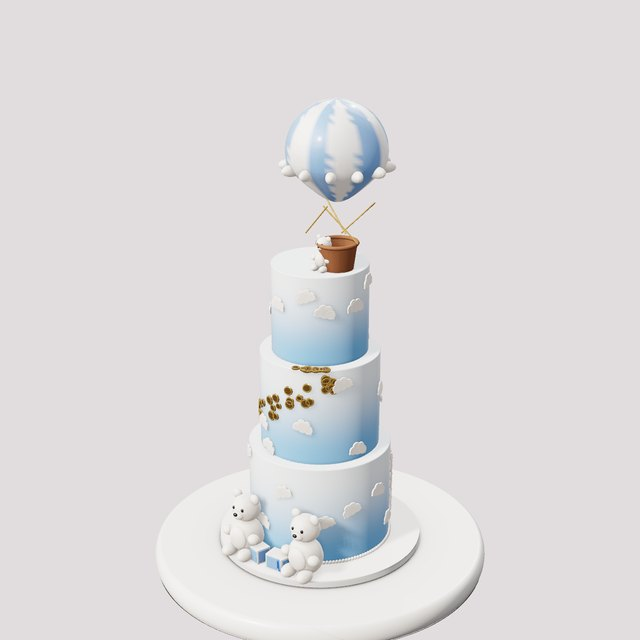
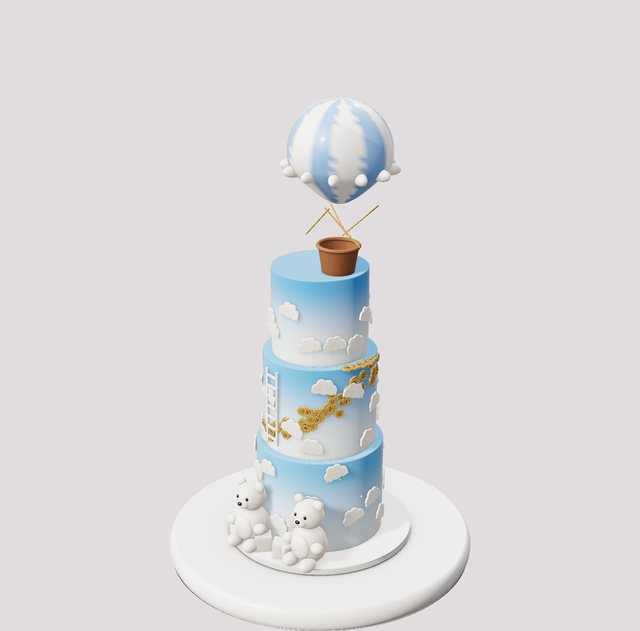
Signature cakes round 7: baby sky ombre, clouds, ladder, buttons; pot lid handle
Claude-Session: https://claude.ai/code/session_016sN14hzH19WJ5zrp8o2QGp

diff --git a/studio.html b/studio.html
@@ -1380,7 +1380,7 @@ function cornParts(q,c){const L=.9,R=.2,g=new T.CylinderGeometry(R,R*.85,L,28,26
 function potatoParts(q,c){const g=new T.SphereGeometry(.22,18,12),p=g.attributes.position,ph=q()*9;for(let i=0;i<p.count;i++){const x=p.getX(i),y=p.getY(i),z=p.getZ(i),k=1+.08*Math.sin(x*9+ph)*Math.sin(z*7);p.setXYZ(i,x*k*1.25,y*k*.8,z*k)}g.computeVertexNormals();g.translate(0,.16,0);
  tintTo(g,(x,y,z)=>{const s=Math.sin(x*40+ph)*Math.sin(z*37)*Math.sin(y*41);return s>.6?[.55,.4,.25]:[1,1,1]});return[[dmat(c,{r:.7,sh:.25}),norm(g)]]}
 function potLidParts(q,c){const R=1/Math.sin(.42),lid=new T.SphereGeometry(R,64,12,0,2*PI,0,.42);lid.scale(1,1.8,1);lid.translate(0,-Math.cos(.42)*R*1.8+.02,0);const rim=new T.TorusGeometry(1,.035,8,64);rim.rotateX(PI/2);rim.translate(0,.03,0);
- const h=new T.TorusGeometry(.22,.04,10,24,PI);h.translate(0,.2,0);const k1=new T.CylinderGeometry(.04,.05,.06,10);k1.translate(-.22,.2,0);const k2=k1.clone();k2.translate(.44,0,0);
+ const h=new T.TorusGeometry(.3,.06,12,28,PI);h.translate(0,.42,0);const k1=new T.CylinderGeometry(.07,.09,.1,12);k1.translate(-.3,.4,0);const k2=k1.clone();k2.translate(.6,0,0);
  return[[sgMat.metal(c),mg([lid,rim,h,k1,k2])]]}
 // ---------- money ----------
 function cashParts(q,c){const parts=[];const n=1+(q()<.5?1:0);for(let k=0;k<n;k++){const W=1.05,H=.45,g=new T.PlaneGeometry(W,H,18,6),p=g.attributes.position,cv=rj(q,.25);for(let i=0;i<p.count;i++){const x=p.getX(i);p.setZ(i,cv*x*x)}
@@ -1584,10 +1584,10 @@ THEMES.unshift(
   newTier(7,3.6,{color:'#fbf8f2',finish:'fondant',side:'quilted',sideColor:'#fbf8f2',pearlColor:'#d9a08a',top:'none',bottom:'pearls',bottomColor:'#d9a08a'}),
   newTier(6,3.4,{color:'#fbf8f2',finish:'fondant',side:'strings',pipe:'#d9a08a',top:'pearls',pipe2:'#d9a08a',bottom:'pearls',bottomColor:'#d9a08a',decor:[DC('brooch','band',1,{color:'#d9a08a',size:100,R:3,rot:95})]}),
   newTier(5,3.4,{color:'#fbf8f2',finish:'fondant',top:'dpearls',topColor:'#d9a08a',bottom:'none',decor:[DC('roses','cluster',3,{color:'#d9a08a',size:130})]})]}},
- {key:'sig_babysky',name:'Up, Up And Away Bears',tag:SIG,blurb:'Sky blue ombre tiers with fondant clouds, a ladder, a spiral of gold buttons, teddy bears, ABC blocks and a hot air balloon.',d:{board:'white',boardColor:'#e9eaec',topper:'none',tiers:[
-  newTier(9,6.5,{color:'#6fb3e8',finish:'fondant',ombre:true,ombreColor:'#eef6fc',top:'none',bottom:'pearls',bottomColor:'#fbf7f1',decor:[DC('clouds','scatter',14,{color:'#fbf7f1',size:150}),DC('teddy','cluster',2,{color:'#f6efe6',size:340,where:'board',face:95}),DC('abcblocks','cluster',4,{size:230,where:'board',mix:['#2f6fd0','#2f6fd0','#7fb0e8']}),DC('ladder','band',1,{color:'#fbf7f1',rot:-40,size:190})]}),
-  newTier(7.5,6.2,{color:'#6fb3e8',finish:'fondant',ombre:true,ombreColor:'#eef6fc',top:'none',bottom:'none',decor:[DC('clouds','scatter',12,{color:'#fbf7f1',size:150}),DC('buttons','cascade',46,{color:'#d4ae5a',rot:-25,size:150,wide:1.5})]}),
-  newTier(6,5.6,{color:'#6fb3e8',finish:'fondant',ombre:true,ombreColor:'#eef6fc',top:'none',bottom:'none',decor:[DC('clouds','scatter',10,{color:'#fbf7f1',size:150}),DC('balloon','cluster',1,{color:'#7fb0e8',size:400,center:true,face:95}),DC('teddy','cluster',1,{color:'#fbf7f1',size:170,face:95})]})]}},
+ {key:'sig_babysky',name:'Up, Up And Away Bears',tag:SIG,blurb:'Three tall tiers airbrushed from pale sky to bright blue, covered in fondant clouds, with a ladder, a pile of gold buttons, teddy bears and ABC blocks, and a bear in a hot air balloon on top.',d:{board:'white',boardColor:'#e9eaec',topper:'none',tiers:[
+  newTier(8.6,6.6,{color:'#e6f1f7',finish:'fondant',ombre:true,ombreColor:'#5aaee8',top:'none',bottom:'none',decor:[DC('clouds','scatter',22,{color:'#fbf7f1',size:190}),DC('dragees','scatter',30,{color:'#fbf7f1',size:60}),DC('teddy','cluster',2,{color:'#f6efe6',size:380,where:'board',face:95}),DC('abcblocks','cluster',3,{size:260,where:'board',mix:['#fbf7f1']})]}),
+  newTier(7.6,6.4,{color:'#e6f1f7',finish:'fondant',ombre:true,ombreColor:'#4aa6e6',top:'none',bottom:'none',decor:[DC('clouds','scatter',18,{color:'#fbf7f1',size:190}),DC('buttons','cascade',70,{color:'#b8913f',rot:-75,size:180,wide:1.4}),DC('ladder','band',1,{color:'#fbf7f1',rot:110,size:240})]}),
+  newTier(6.4,5.8,{color:'#e6f1f7',finish:'fondant',ombre:true,ombreColor:'#3c9be0',top:'none',bottom:'none',decor:[DC('clouds','scatter',14,{color:'#fbf7f1',size:180}),DC('balloon','cluster',1,{color:'#7fb0e8',size:440,center:true,face:95})]})]}},
  {key:'sig_sports',name:'All-Star Sports Board',tag:SIG,blurb:'A low round sports board cake with a soccer-green field, football yard lines, an orange basketball court and a blue baseball diamond, topped with a baseball, soccer ball, basketball, football, glove and bat.',d:{board:'white',boardColor:'#e8762c',topper:'none',tiers:[
   newTier(14,2.6,{color:'#3f9a45',finish:'fondant',top:'rope',pipe:'#fbf7f1',bottom:'none',decor:[DC('glove','crown',1,{size:330,rot:40}),DC('hoopball','crown',1,{size:300,rot:110}),DC('soccerball','crown',1,{size:290,rot:170}),DC('football','crown',1,{size:290,rot:235}),DC('baseball2','crown',1,{size:270,rot:300}),DC('bat','crown',1,{size:230,rot:350})]})]}},
  {key:'sig_blocks',name:'Building Block Number',tag:SIG,blurb:'A sunny yellow number 6 with a blue window, a mosaic wall of toy bricks around the side, rainbow sprinkles and bricks on top.',d:{cakeType:'number',number:{text:'6',height:13,layers:2,cake:'vanilla',cream:'#f6c919',style:'frosted',wall:['#e8475f','#2f6fd0','#f2c230','#5cc06c','#2f6fd0','#e8475f','#2a7a3a'],wallH:.95,holeFill:'#2f6fd0'},board:'white',boardColor:'#2f3f6b',topper:'none',tiers:[

diff --git a/tools/signature-decor.js b/tools/signature-decor.js
@@ -48,7 +48,7 @@ function cornParts(q,c){const L=.9,R=.2,g=new T.CylinderGeometry(R,R*.85,L,28,26
 function potatoParts(q,c){const g=new T.SphereGeometry(.22,18,12),p=g.attributes.position,ph=q()*9;for(let i=0;i<p.count;i++){const x=p.getX(i),y=p.getY(i),z=p.getZ(i),k=1+.08*Math.sin(x*9+ph)*Math.sin(z*7);p.setXYZ(i,x*k*1.25,y*k*.8,z*k)}g.computeVertexNormals();g.translate(0,.16,0);
  tintTo(g,(x,y,z)=>{const s=Math.sin(x*40+ph)*Math.sin(z*37)*Math.sin(y*41);return s>.6?[.55,.4,.25]:[1,1,1]});return[[dmat(c,{r:.7,sh:.25}),norm(g)]]}
 function potLidParts(q,c){const R=1/Math.sin(.42),lid=new T.SphereGeometry(R,64,12,0,2*PI,0,.42);lid.scale(1,1.8,1);lid.translate(0,-Math.cos(.42)*R*1.8+.02,0);const rim=new T.TorusGeometry(1,.035,8,64);rim.rotateX(PI/2);rim.translate(0,.03,0);
- const h=new T.TorusGeometry(.22,.04,10,24,PI);h.translate(0,.2,0);const k1=new T.CylinderGeometry(.04,.05,.06,10);k1.translate(-.22,.2,0);const k2=k1.clone();k2.translate(.44,0,0);
+ const h=new T.TorusGeometry(.3,.06,12,28,PI);h.translate(0,.42,0);const k1=new T.CylinderGeometry(.07,.09,.1,12);k1.translate(-.3,.4,0);const k2=k1.clone();k2.translate(.6,0,0);
  return[[sgMat.metal(c),mg([lid,rim,h,k1,k2])]]}
 // ---------- money ----------
 function cashParts(q,c){const parts=[];const n=1+(q()<.5?1:0);for(let k=0;k<n;k++){const W=1.05,H=.45,g=new T.PlaneGeometry(W,H,18,6),p=g.attributes.position,cv=rj(q,.25);for(let i=0;i<p.count;i++){const x=p.getX(i);p.setZ(i,cv*x*x)}
@@ -252,10 +252,10 @@ THEMES.unshift(
   newTier(7,3.6,{color:'#fbf8f2',finish:'fondant',side:'quilted',sideColor:'#fbf8f2',pearlColor:'#d9a08a',top:'none',bottom:'pearls',bottomColor:'#d9a08a'}),
   newTier(6,3.4,{color:'#fbf8f2',finish:'fondant',side:'strings',pipe:'#d9a08a',top:'pearls',pipe2:'#d9a08a',bottom:'pearls',bottomColor:'#d9a08a',decor:[DC('brooch','band',1,{color:'#d9a08a',size:100,R:3,rot:95})]}),
   newTier(5,3.4,{color:'#fbf8f2',finish:'fondant',top:'dpearls',topColor:'#d9a08a',bottom:'none',decor:[DC('roses','cluster',3,{color:'#d9a08a',size:130})]})]}},
- {key:'sig_babysky',name:'Up, Up And Away Bears',tag:SIG,blurb:'Sky blue ombre tiers with fondant clouds, a ladder, a spiral of gold buttons, teddy bears, ABC blocks and a hot air balloon.',d:{board:'white',boardColor:'#e9eaec',topper:'none',tiers:[
-  newTier(9,6.5,{color:'#6fb3e8',finish:'fondant',ombre:true,ombreColor:'#eef6fc',top:'none',bottom:'pearls',bottomColor:'#fbf7f1',decor:[DC('clouds','scatter',14,{color:'#fbf7f1',size:150}),DC('teddy','cluster',2,{color:'#f6efe6',size:340,where:'board',face:95}),DC('abcblocks','cluster',4,{size:230,where:'board',mix:['#2f6fd0','#2f6fd0','#7fb0e8']}),DC('ladder','band',1,{color:'#fbf7f1',rot:-40,size:190})]}),
-  newTier(7.5,6.2,{color:'#6fb3e8',finish:'fondant',ombre:true,ombreColor:'#eef6fc',top:'none',bottom:'none',decor:[DC('clouds','scatter',12,{color:'#fbf7f1',size:150}),DC('buttons','cascade',46,{color:'#d4ae5a',rot:-25,size:150,wide:1.5})]}),
-  newTier(6,5.6,{color:'#6fb3e8',finish:'fondant',ombre:true,ombreColor:'#eef6fc',top:'none',bottom:'none',decor:[DC('clouds','scatter',10,{color:'#fbf7f1',size:150}),DC('balloon','cluster',1,{color:'#7fb0e8',size:400,center:true,face:95}),DC('teddy','cluster',1,{color:'#fbf7f1',size:170,face:95})]})]}},
+ {key:'sig_babysky',name:'Up, Up And Away Bears',tag:SIG,blurb:'Three tall tiers airbrushed from pale sky to bright blue, covered in fondant clouds, with a ladder, a pile of gold buttons, teddy bears and ABC blocks, and a bear in a hot air balloon on top.',d:{board:'white',boardColor:'#e9eaec',topper:'none',tiers:[
+  newTier(8.6,6.6,{color:'#e6f1f7',finish:'fondant',ombre:true,ombreColor:'#5aaee8',top:'none',bottom:'none',decor:[DC('clouds','scatter',22,{color:'#fbf7f1',size:190}),DC('dragees','scatter',30,{color:'#fbf7f1',size:60}),DC('teddy','cluster',2,{color:'#f6efe6',size:380,where:'board',face:95}),DC('abcblocks','cluster',3,{size:260,where:'board',mix:['#fbf7f1']})]}),
+  newTier(7.6,6.4,{color:'#e6f1f7',finish:'fondant',ombre:true,ombreColor:'#4aa6e6',top:'none',bottom:'none',decor:[DC('clouds','scatter',18,{color:'#fbf7f1',size:190}),DC('buttons','cascade',70,{color:'#b8913f',rot:-75,size:180,wide:1.4}),DC('ladder','band',1,{color:'#fbf7f1',rot:110,size:240})]}),
+  newTier(6.4,5.8,{color:'#e6f1f7',finish:'fondant',ombre:true,ombreColor:'#3c9be0',top:'none',bottom:'none',decor:[DC('clouds','scatter',14,{color:'#fbf7f1',size:180}),DC('balloon','cluster',1,{color:'#7fb0e8',size:440,center:true,face:95})]})]}},
  {key:'sig_sports',name:'All-Star Sports Board',tag:SIG,blurb:'A low round sports board cake with a soccer-green field, football yard lines, an orange basketball court and a blue baseball diamond, topped with a baseball, soccer ball, basketball, football, glove and bat.',d:{board:'white',boardColor:'#e8762c',topper:'none',tiers:[
   newTier(14,2.6,{color:'#3f9a45',finish:'fondant',top:'rope',pipe:'#fbf7f1',bottom:'none',decor:[DC('glove','crown',1,{size:330,rot:40}),DC('hoopball','crown',1,{size:300,rot:110}),DC('soccerball','crown',1,{size:290,rot:170}),DC('football','crown',1,{size:290,rot:235}),DC('baseball2','crown',1,{size:270,rot:300}),DC('bat','crown',1,{size:230,rot:350})]})]}},
  {key:'sig_blocks',name:'Building Block Number',tag:SIG,blurb:'A sunny yellow number 6 with a blue window, a mosaic wall of toy bricks around the side, rainbow sprinkles and bricks on top.',d:{cakeType:'number',number:{text:'6',height:13,layers:2,cake:'vanilla',cream:'#f6c919',style:'frosted',wall:['#e8475f','#2f6fd0','#f2c230','#5cc06c','#2f6fd0','#e8475f','#2a7a3a'],wallH:.95,holeFill:'#2f6fd0'},board:'white',boardColor:'#2f3f6b',topper:'none',tiers:[

diff --git a/tools/sig-themes.js b/tools/sig-themes.js
@@ -39,10 +39,10 @@ THEMES.unshift(
   newTier(7,3.6,{color:'#fbf8f2',finish:'fondant',side:'quilted',sideColor:'#fbf8f2',pearlColor:'#d9a08a',top:'none',bottom:'pearls',bottomColor:'#d9a08a'}),
   newTier(6,3.4,{color:'#fbf8f2',finish:'fondant',side:'strings',pipe:'#d9a08a',top:'pearls',pipe2:'#d9a08a',bottom:'pearls',bottomColor:'#d9a08a',decor:[DC('brooch','band',1,{color:'#d9a08a',size:100,R:3,rot:95})]}),
   newTier(5,3.4,{color:'#fbf8f2',finish:'fondant',top:'dpearls',topColor:'#d9a08a',bottom:'none',decor:[DC('roses','cluster',3,{color:'#d9a08a',size:130})]})]}},
- {key:'sig_babysky',name:'Up, Up And Away Bears',tag:SIG,blurb:'Sky blue ombre tiers with fondant clouds, a ladder, a spiral of gold buttons, teddy bears, ABC blocks and a hot air balloon.',d:{board:'white',boardColor:'#e9eaec',topper:'none',tiers:[
-  newTier(9,6.5,{color:'#6fb3e8',finish:'fondant',ombre:true,ombreColor:'#eef6fc',top:'none',bottom:'pearls',bottomColor:'#fbf7f1',decor:[DC('clouds','scatter',14,{color:'#fbf7f1',size:150}),DC('teddy','cluster',2,{color:'#f6efe6',size:340,where:'board',face:95}),DC('abcblocks','cluster',4,{size:230,where:'board',mix:['#2f6fd0','#2f6fd0','#7fb0e8']}),DC('ladder','band',1,{color:'#fbf7f1',rot:-40,size:190})]}),
-  newTier(7.5,6.2,{color:'#6fb3e8',finish:'fondant',ombre:true,ombreColor:'#eef6fc',top:'none',bottom:'none',decor:[DC('clouds','scatter',12,{color:'#fbf7f1',size:150}),DC('buttons','cascade',46,{color:'#d4ae5a',rot:-25,size:150,wide:1.5})]}),
-  newTier(6,5.6,{color:'#6fb3e8',finish:'fondant',ombre:true,ombreColor:'#eef6fc',top:'none',bottom:'none',decor:[DC('clouds','scatter',10,{color:'#fbf7f1',size:150}),DC('balloon','cluster',1,{color:'#7fb0e8',size:400,center:true,face:95}),DC('teddy','cluster',1,{color:'#fbf7f1',size:170,face:95})]})]}},
+ {key:'sig_babysky',name:'Up, Up And Away Bears',tag:SIG,blurb:'Three tall tiers airbrushed from pale sky to bright blue, covered in fondant clouds, with a ladder, a pile of gold buttons, teddy bears and ABC blocks, and a bear in a hot air balloon on top.',d:{board:'white',boardColor:'#e9eaec',topper:'none',tiers:[
+  newTier(8.6,6.6,{color:'#e6f1f7',finish:'fondant',ombre:true,ombreColor:'#5aaee8',top:'none',bottom:'none',decor:[DC('clouds','scatter',22,{color:'#fbf7f1',size:190}),DC('dragees','scatter',30,{color:'#fbf7f1',size:60}),DC('teddy','cluster',2,{color:'#f6efe6',size:380,where:'board',face:95}),DC('abcblocks','cluster',3,{size:260,where:'board',mix:['#fbf7f1']})]}),
+  newTier(7.6,6.4,{color:'#e6f1f7',finish:'fondant',ombre:true,ombreColor:'#4aa6e6',top:'none',bottom:'none',decor:[DC('clouds','scatter',18,{color:'#fbf7f1',size:190}),DC('buttons','cascade',70,{color:'#b8913f',rot:-75,size:180,wide:1.4}),DC('ladder','band',1,{color:'#fbf7f1',rot:110,size:240})]}),
+  newTier(6.4,5.8,{color:'#e6f1f7',finish:'fondant',ombre:true,ombreColor:'#3c9be0',top:'none',bottom:'none',decor:[DC('clouds','scatter',14,{color:'#fbf7f1',size:180}),DC('balloon','cluster',1,{color:'#7fb0e8',size:440,center:true,face:95})]})]}},
  {key:'sig_sports',name:'All-Star Sports Board',tag:SIG,blurb:'A low round sports board cake with a soccer-green field, football yard lines, an orange basketball court and a blue baseball diamond, topped with a baseball, soccer ball, basketball, football, glove and bat.',d:{board:'white',boardColor:'#e8762c',topper:'none',tiers:[
   newTier(14,2.6,{color:'#3f9a45',finish:'fondant',top:'rope',pipe:'#fbf7f1',bottom:'none',decor:[DC('glove','crown',1,{size:330,rot:40}),DC('hoopball','crown',1,{size:300,rot:110}),DC('soccerball','crown',1,{size:290,rot:170}),DC('football','crown',1,{size:290,rot:235}),DC('baseball2','crown',1,{size:270,rot:300}),DC('bat','crown',1,{size:230,rot:350})]})]}},
  {key:'sig_blocks',name:'Building Block Number',tag:SIG,blurb:'A sunny yellow number 6 with a blue window, a mosaic wall of toy bricks around the side, rainbow sprinkles and bricks on top.',d:{cakeType:'number',number:{text:'6',height:13,layers:2,cake:'vanilla',cream:'#f6c919',style:'frosted',wall:['#e8475f','#2f6fd0','#f2c230','#5cc06c','#2f6fd0','#e8475f','#2a7a3a'],wallH:.95,holeFill:'#2f6fd0'},board:'white',boardColor:'#2f3f6b',topper:'none',tiers:[

diff --git a/tools/sig-pieces.js b/tools/sig-pieces.js
@@ -48,7 +48,7 @@ function cornParts(q,c){const L=.9,R=.2,g=new T.CylinderGeometry(R,R*.85,L,28,26
 function potatoParts(q,c){const g=new T.SphereGeometry(.22,18,12),p=g.attributes.position,ph=q()*9;for(let i=0;i<p.count;i++){const x=p.getX(i),y=p.getY(i),z=p.getZ(i),k=1+.08*Math.sin(x*9+ph)*Math.sin(z*7);p.setXYZ(i,x*k*1.25,y*k*.8,z*k)}g.computeVertexNormals();g.translate(0,.16,0);
  tintTo(g,(x,y,z)=>{const s=Math.sin(x*40+ph)*Math.sin(z*37)*Math.sin(y*41);return s>.6?[.55,.4,.25]:[1,1,1]});return[[dmat(c,{r:.7,sh:.25}),norm(g)]]}
 function potLidParts(q,c){const R=1/Math.sin(.42),lid=new T.SphereGeometry(R,64,12,0,2*PI,0,.42);lid.scale(1,1.8,1);lid.translate(0,-Math.cos(.42)*R*1.8+.02,0);const rim=new T.TorusGeometry(1,.035,8,64);rim.rotateX(PI/2);rim.translate(0,.03,0);
- const h=new T.TorusGeometry(.22,.04,10,24,PI);h.translate(0,.2,0);const k1=new T.CylinderGeometry(.04,.05,.06,10);k1.translate(-.22,.2,0);const k2=k1.clone();k2.translate(.44,0,0);
+ const h=new T.TorusGeometry(.3,.06,12,28,PI);h.translate(0,.42,0);const k1=new T.CylinderGeometry(.07,.09,.1,12);k1.translate(-.3,.4,0);const k2=k1.clone();k2.translate(.6,0,0);
  return[[sgMat.metal(c),mg([lid,rim,h,k1,k2])]]}
 // ---------- money ----------
 function cashParts(q,c){const parts=[];const n=1+(q()<.5?1:0);for(let k=0;k<n;k++){const W=1.05,H=.45,g=new T.PlaneGeometry(W,H,18,6),p=g.attributes.position,cv=rj(q,.25);for(let i=0;i<p.count;i++){const x=p.getX(i);p.setZ(i,cv*x*x)}
